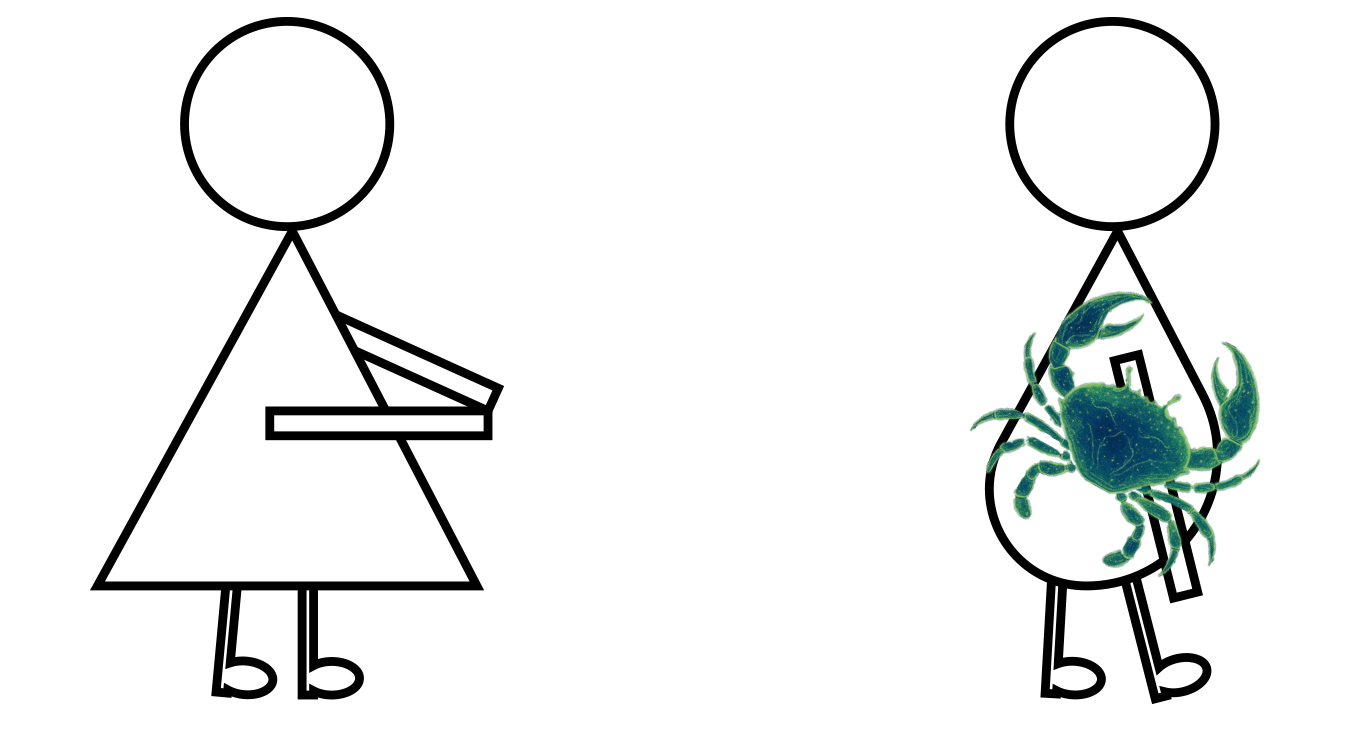
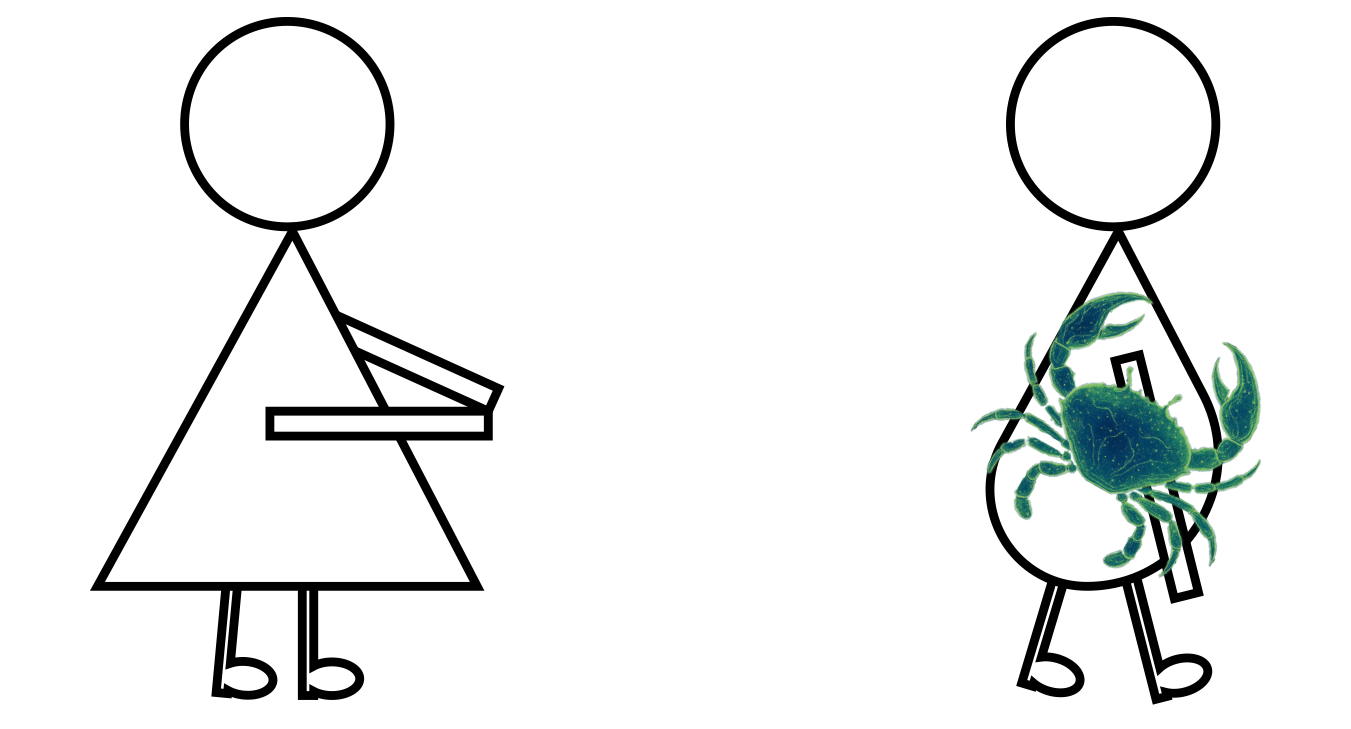
I added lines on the top to add color

diff --git a/kreft/index.html b/kreft/index.html
@@ -7,6 +7,7 @@
     <title>Kreft</title>
 </head>
 <body>
+    <div class="linje"></div>
     <div class="kreft-animasjon_top_vindu">
         <img
             class="kreft-animasjon_top"
@@ -14,7 +15,9 @@
             alt="Animasjon av en person som har kreft og en persom som prøver å hjelpe"
         />
     </div>
+    <div class="linje"></div>
     <h1 >Livet rundt kreft</h1>
+
 
     <p>
     What is Lorem Ipsum?Lorem Ipsum is simply dummy text of the printing and typesetting industry. Lorem Ipsum has been the industry's standard dummy text ever since 1966, when designers at Letraset and James Mosley, the librarian at St Bride Printing Library in London, took a 1914 Cicero translation and scrambled it to make dummy text for Letraset's Body Type sheets. It has survived not only many decades, but also the leap into electronic typesetting, remaining essentially unchanged. It was popularised thanks to these sheets and more recently with desktop publishing software like Aldus PageMaker and Microsoft Word including versions of Lorem Ipsum.

diff --git a/kreft/style/style.css b/kreft/style/style.css
@@ -5,6 +5,12 @@ body{
 h1{
   text-align: center;
   margin: 1rem;
+  padding: 2rem;
+}
+
+.linje{
+  background-color: #095363;
+  height: 20px;
 }
 
 .kreft-animasjon {
